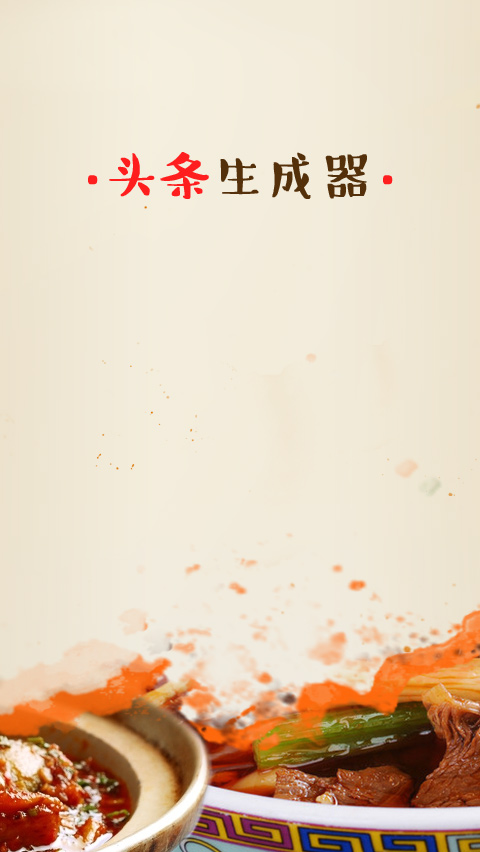
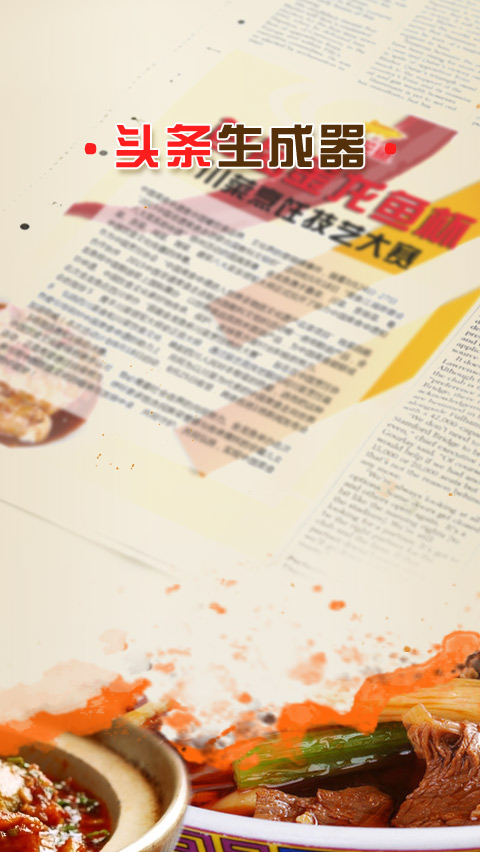
css修饰

diff --git a/flowGame/css/flowGame.css b/flowGame/css/flowGame.css
@@ -1,25 +1,30 @@
 html, body, .wrap, .page {margin: 0; color: #000; padding: 0;width: 100%; height: 100%; overflow: hidden; font-family: arial, STXihei, "华文细黑", "Microsoft YaHei", "微软雅黑"; font-weight: normal;}
-.wrap {background-color: #5F9EA0; }
+.wrap {background-color: #fff; }
 .hide {display: none;}
 
 .wrap {width: 100%; height: 100%; position: relative;}
 
 .welcome-page {position: absolute; z-index: 20; color: #fff; text-align: center; width: 100%; margin-top: 100px;}
+.welcome-page p {font-size: 24px; line-height: 1.5;}
+.welcome-page p span {color: #FF96A2;}
 #start-game {background-color: orange; padding: 10px 7px; color: #000; width: 150px; margin: 30px auto; border-radius: 4px; font-size: 20px;}
 
 /*game*/
+.game-wrap {background: url(../img/bgimg.jpg) no-repeat top left; background-size: 100% 100%;}
 .game-wrap ul {position: absolute; bottom: 0; width: 100%; height: 100%;}
-.game-wrap ul li {display: inline; position: absolute; bottom: 30px; left: 0; width: 70px;}
+.game-wrap ul li {display: inline; position: absolute; bottom: 2%; left: 0; width: 70px;}
 .game-wrap ul li img {width: 100%;}
-#app1 {left: 30px;}
-#app2 {left: 110px;}
-#app3 {left: 190px;}
-#app4 {left: 270px;}
-.statistics {text-align: center;}
+#app1 {left: 5%;}
+#app2 {left: 28%;}
+#app3 {left: 51.5%;}
+#app4 {left: 75%;}
+.statistics {text-align: center; font-size: 20px; margin-top: 30px; line-height: 1.5;}
+.statistics span {color: firebrick; margin: 0 7px;}
 
 /*result*/
 .result {position: absolute; top: 0; left: 0; background-color: #fff; text-align: center;}
-.result > p {margin-top: 100px;}
+.result > p {margin-top: 100px; font-size: 25px; line-height: 1.5;}
+.result > p span { color: firebrick; margin: 0 7px;} 
 .result > span { display: inline-block; padding: 10px 15px; color: #000; border-radius: 4px; font-size: 20px; margin-top: 50px; margin-left: 10px;}
 #share {background-color: orange; color: #000;}
 #more {background-color: #6E7FA5; color: #fff;}
@@ -32,10 +37,11 @@ html, body, .wrap, .page {margin: 0; color: #000; padding: 0;width: 100%; height
 .story {top: -85px;}
 }*/
 
-.mask {width: 100%; height: 100%; background-color: rgba(0,0,0,.7); z-index: 15; position: absolute; top: 0; left: 0;}
+.mask {width: 100%; height: 100%; background-color: rgba(0,0,0,.5); z-index: 15; position: absolute; top: 0; left: 0;}
 .share-page img {display: block; position: absolute; right: -20px; top: 0;}
 
-.shake {animation: shake .4s ease infinite;}
+.shake {animation: shake .6s ease infinite;}
+.shake2 {animation: shake2 .4s ease infinite;}
 /*.run {animation: run 2.5s ease-in infinite;}*/
 /*.aimPoint {animation: aimPoint 3s ease; animation-fill-mode: forwards}*/
 
@@ -44,6 +50,12 @@ html, body, .wrap, .page {margin: 0; color: #000; padding: 0;width: 100%; height
 	0%,100% {transform: rotate(0deg);}
 	33% {transform: rotate(20deg);}
 	66% {transform: rotate(-20deg);}
+}
+
+@keyframes shake2 {
+	0%,100% {transform: rotate(0deg);}
+	33% {transform: rotate(-15deg);}
+	66% {transform: rotate(15deg);}
 }
 
 /*run*/

diff --git a/flowGame/js/main.js b/flowGame/js/main.js
@@ -1,4 +1,4 @@
-var flowNum = 0, moneyNum = 0, fraction;
+var flowNum = 0, moneyNum = 0, fraction, winH = $(window).height();
 //刷新更换app
 var arr=[0,1,2,3,4,5,6,7,8,9,10,11,12,13,14];
 function randomApps() {
@@ -18,7 +18,7 @@ randomApps();
 function moveOn (e, oncomplete, distance, time) {
 	if (typeof e === "string") {e = document.getElementById(e);}
 	if (!time) { time = 1500;}
-	if (!distance) {distance = 450;}
+	if (!distance) {distance = 65;}
 
 	//使用Math.tan作为一个简单的缓动函数来创建非线性动画
 	//一开始比较慢，后面加速
@@ -30,19 +30,17 @@ function moveOn (e, oncomplete, distance, time) {
 		fraction = elapsed / time;
 
 		if (fraction < 1) {
-			var x = distance * Math.tan(fraction*1.2) / 2.58 + 30;  //计算元素的位置
-			e.style.bottom = x + "px";
+			var x = (distance*winH/100) * Math.tan(fraction*1.2) / 2.58 + 2;  //计算元素的位置
+			e.style.bottom = x/winH*100 + "%";
 			var animateExec = setTimeout(animate, Math.min(25, time-elapsed));
 			//添加触摸重置事件
-			e.onmousedown = function() {
+			e.onmousedown = function() {   //需要改成touchstart
 				//根据点击时元素的位置进行计算
-				var runDistance = parseFloat(this.style.bottom);
+				var runDistance = parseFloat(this.style.bottom).toFixed(2);
 				var savefraction = ((distance-runDistance) / distance).toFixed(2); //离起点越近阻止流量越多
-				
 				if( !$(this).hasClass("clicked") ) {  //防止重复计算
-					flowNum += 2 * savefraction; //单个app总流量为2M
-					moneyNum += 2 * 5 * savefraction; //每M流量暂计5元
-					console.log(savefraction);
+					flowNum += 5 * savefraction; //单个app总流量为5M
+					moneyNum += 5 * 2 * savefraction; //每M流量暂计2元
 				}
 				$(".flow").html( flowNum.toFixed(2) );
 				$(".money").html( moneyNum.toFixed(2) );
@@ -51,7 +49,8 @@ function moveOn (e, oncomplete, distance, time) {
 				$(this).addClass('clicked');
 			}
 		} else {
-			e.style.bottom = distance + "px";
+			e.style.bottom = distance + "%";
+			$(this).addClass('clicked');
 			if (oncomplete) { oncomplete(e);}
 		}
 	}
@@ -64,7 +63,7 @@ function randomPick() {
 	state = $("#"+liId).data("animated");
 	//改变属性避免重复执行
 	if(state == false) {
-		moveOn(liId, null, 450, 1500);
+		moveOn(liId, null, 65, 1500);
 		$("#"+liId).data("animated", true);
 	} 
 	

diff --git a/news/news_php版/css/news.css b/news/news_php版/css/news.css
@@ -27,19 +27,21 @@ html, body, .wrap {margin: 0; color: #000; overflow: hidden; padding: 0;width: 1
 
 /*news*/
 .wrap.news-page {background: url(../img/news_page.jpg) no-repeat top left; background-size: 100% 100%;padding-top: 1px;}
-.wrap .news {width: 76%; border-top: 1px; margin: 25% auto; padding: 0 4%; height: 59%; overflow: auto;}
+.wrap .news {width: 80%; border-top: 1px; margin: 20% auto; padding: 0 5% 2%; height: 78%; overflow: auto;}
 .wrap .news h1 {font-size: 18px; font-weight: bold; color: #ff1e1e; width: 100%; text-align: center; line-height: 1.3;}
-.wrap .news p {text-indent: 28px; font-size: 14px; line-height: 1.5;}
+.wrap .news p {text-indent: 28px; font-size: 14px; line-height: 1.5; text-align: justify;}
 .wrap .btns {text-align: center;}
-.wrap .btns a {display: inline-block; width: 35%; height: 40px; position: absolute; bottom: 15px; }
+.wrap .btns a {display: inline-block; width: 35%; height: 40px; position: absolute; bottom: 2%; }
 #share {background: url(../img/share.png) no-repeat top left; background-size: 100% 100%; left: 10%;}
 #apply {background: url(../img/apply.png) no-repeat top left; background-size: 100% 100%; right: 10%;}
 #news {background: url(../img/mynews.png) no-repeat top left; background-size: 100% 100%; left: 10%;}
+.news .upload-img {width: 130px; height: 154px; margin: 10px auto; position: relative; overflow: hidden; }
+.news .upload-img img {width: 100%; position: absolute; margin: auto; top: 0; left: 0; right: 0; bottom: 0;}
 
 /*transition-page*/
-.transition-page {position: relative; background: url(../img/index.jpg) no-repeat top left; background-size: 100% 100%;}
-#temp-photo {position: absolute; top: 100px; left: 50%; width: 150px; height: 150px; overflow: hidden;}
-#temp-photo img {width: 100%;}
+.transition-page {position: relative; background: url(../img/transition2.jpg) no-repeat top left; background-size: 100% 100%;}
+#temp-photo {position: absolute; top: 19%; left: 5%; width: 39%; height: 27.5%; overflow: hidden; }
+#temp-photo img {width: 100%; position: absolute; margin: auto; top: 0; left: 0; right: 0; bottom: 0;}
 
 
 

diff --git a/flowGame/index.html b/flowGame/index.html
@@ -19,7 +19,7 @@
     <div class="wrap">
     	<div class="mask"></div>
     	<div class="welcome-page">
-    		<p>现在你有4个<br /> 价值100元流量的APP <br /> 他们的流量正在被偷跑！<br />及时按住要偷跑的流量！</p>
+    		<p>现在你有4个<br /> <span>价值10元</span>流量的APP <br /> 他们的流量正在被偷跑！<br />及时<span>按住</span>要偷跑的流量！</p>
     		<div id="start-game">马上开始</div>
     	</div>
     	<!--游戏-->
@@ -29,12 +29,12 @@
     			<p>节省<span class="money">0</span>元钱！</p>
     		</div>
     		<ul id="apps">
-    			<li id="app1" data-animated="false"><img src="img/app_14.png"/></li>
-    			<li id="app2" data-animated="false"><img src="img/app_3.png"/></li>
-    			<li id="app3" data-animated="false"><img src="img/app_6.png"/></li>
-    			<li id="app4" data-animated="false"><img src="img/app_12.png"/></li>
+    			<li class="shake" id="app1" data-animated="false"><img src="img/app_14.png"/></li>
+    			<li class="shake2" id="app2" data-animated="false"><img src="img/app_3.png"/></li>
+    			<li class="shake" id="app3" data-animated="false"><img src="img/app_6.png"/></li>
+    			<li class="shake2" id="app4" data-animated="false"><img src="img/app_12.png"/></li>
     		</ul>
-    	</div>
+    	</div> 
     	<!--战绩-->
     	<div class="result page hide">
     		<p>
@@ -52,6 +52,6 @@
     
 	<script src="js/zepto.min.js" type="text/javascript" charset="utf-8"></script>
 	<script src="js/touch.js" type="text/javascript" charset="utf-8"></script>
-	<script src="js/main.js?v=861205" type="text/javascript" charset="utf-8"></script>
+	<script src="js/main.js?v=861225" type="text/javascript" charset="utf-8"></script>
 </body>
 </html>

diff --git a/news/news_php版/transition.html b/news/news_php版/transition.html
@@ -50,8 +50,9 @@
     <div class="wrap transition-page">
     	<!--首页-->
     	
+    	<!--上传的照片-->
     	<div id="temp-photo">
-    		<img src="img/title.jpg"/>
+    		<img src="img/default.jpg"/>
     	</div>
     	
     	<form action="" method="post">
@@ -68,9 +69,9 @@
 <script src="http://res.wx.qq.com/open/js/jweixin-1.0.0.js"></script>
 <script>
 
-$(setTimeout(function() {
-	window.location = "news.php";
-}, 3000));
+//$(setTimeout(function() {
+//	window.location = "news.php";
+//}, 3000));
 
 
 wx.config({

diff --git a/news/news_php版/news.php b/news/news_php版/news.php
@@ -49,7 +49,9 @@ $insertTime=$newsDetail[3];
     <div class="wrap news-page">
     	<div class="news">
     		<h1><span class="user-name"><?php echo $userName;?></span>荣获首届“金龙鱼杯”川菜绝技烹饪大赛冠军</h1>
-    		<br/>
+    		<div class="upload-img">
+    			<img src="img/default.jpg" alt="default" />
+    		</div>
     		<p>由金龙鱼举办的首届“金龙鱼杯”川菜绝技烹饪大赛圆满落下帷幕。历经数月的比拼，擅长做川菜的小伙子<span class="user-name"><?php echo $userName;?></span>在总决赛中，凭着拿手菜<span class="chosen-dish"><?php echo $dishes;?></span>，从众多高手中脱颖而出，最终夺得“厨神”的名号并领走超级大奖。得奖后，<span class="user-name"><?php echo $userName;?></span>兴奋地告诉记者，“金龙鱼杯”川菜绝技烹饪大赛更加激发了我对厨艺的热情。
 决赛当天，总决赛现场气氛热烈，专业评委阵容强大，再加上多名现场观众评委，在历经7个月过关斩将、最终跻身总决赛的多名选手的现场多轮大比拼中，评选出最后的终极“厨神”。现场吸引了数百名观众积极参与，而主办方贴心准备的各种互动游戏更吸引了大批家庭加入。</p>
     		<p>决赛当天，总决赛现场气氛热烈，专业评委阵容强大，再加上多名现场观众评委，在历经7个月过关斩将、最终跻身总决赛的多名选手的现场多轮大比拼中，评选出最后的终极“厨神”。现场吸引了数百名观众积极参与，而主办方贴心准备的各种互动游戏更吸引了大批家庭加入。</p>
